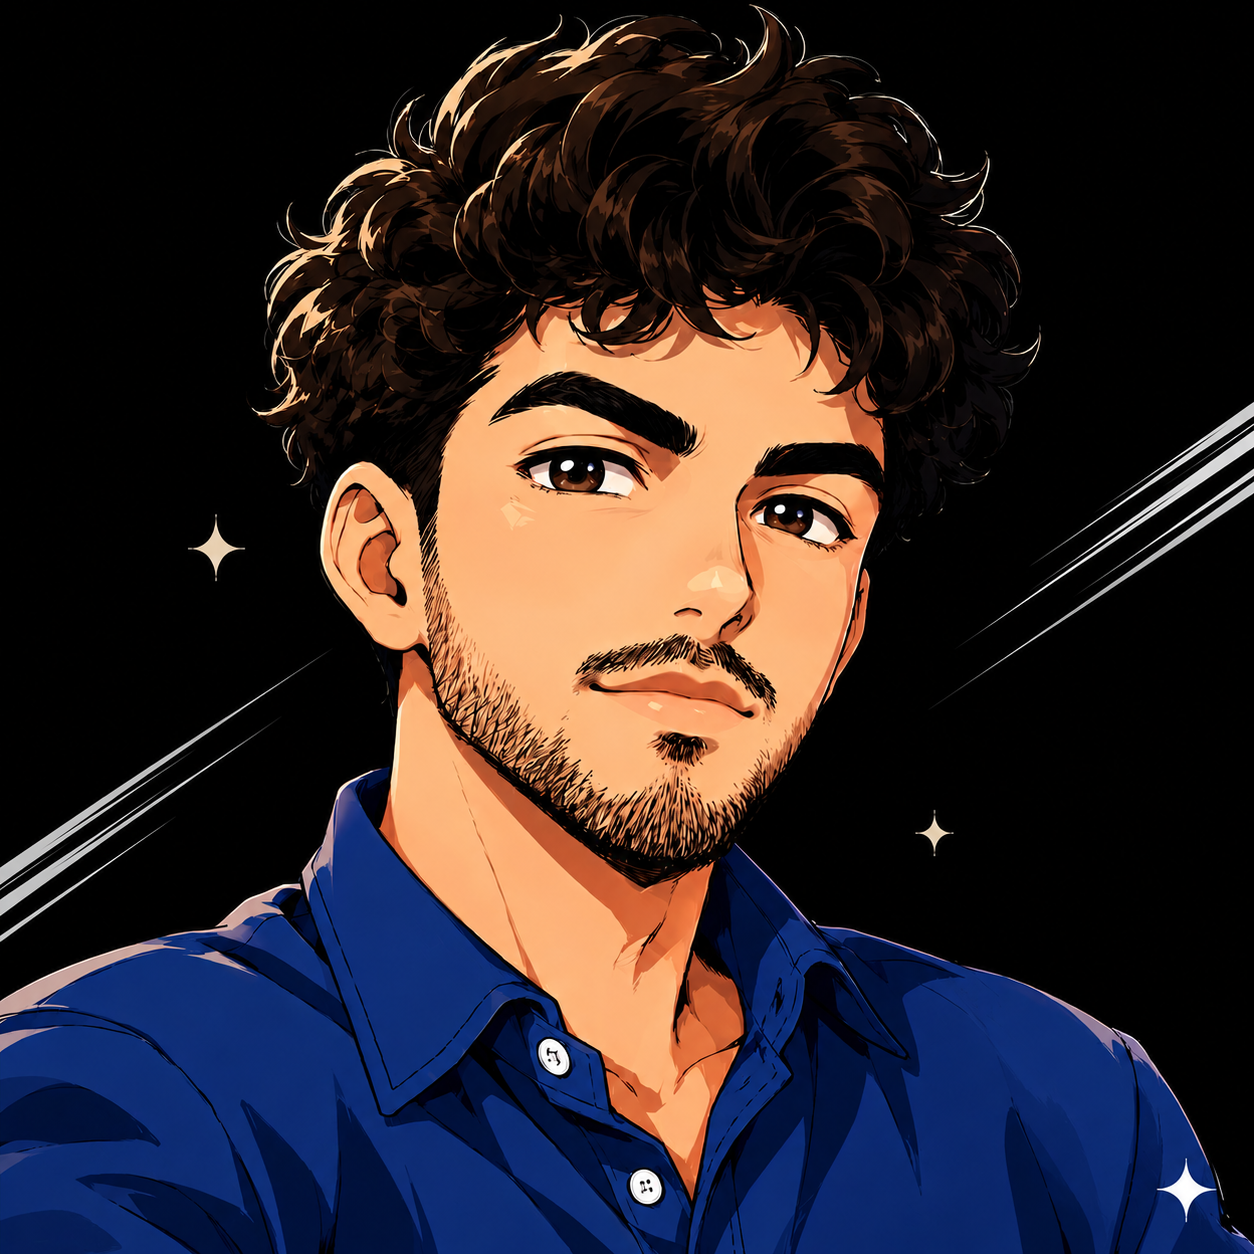
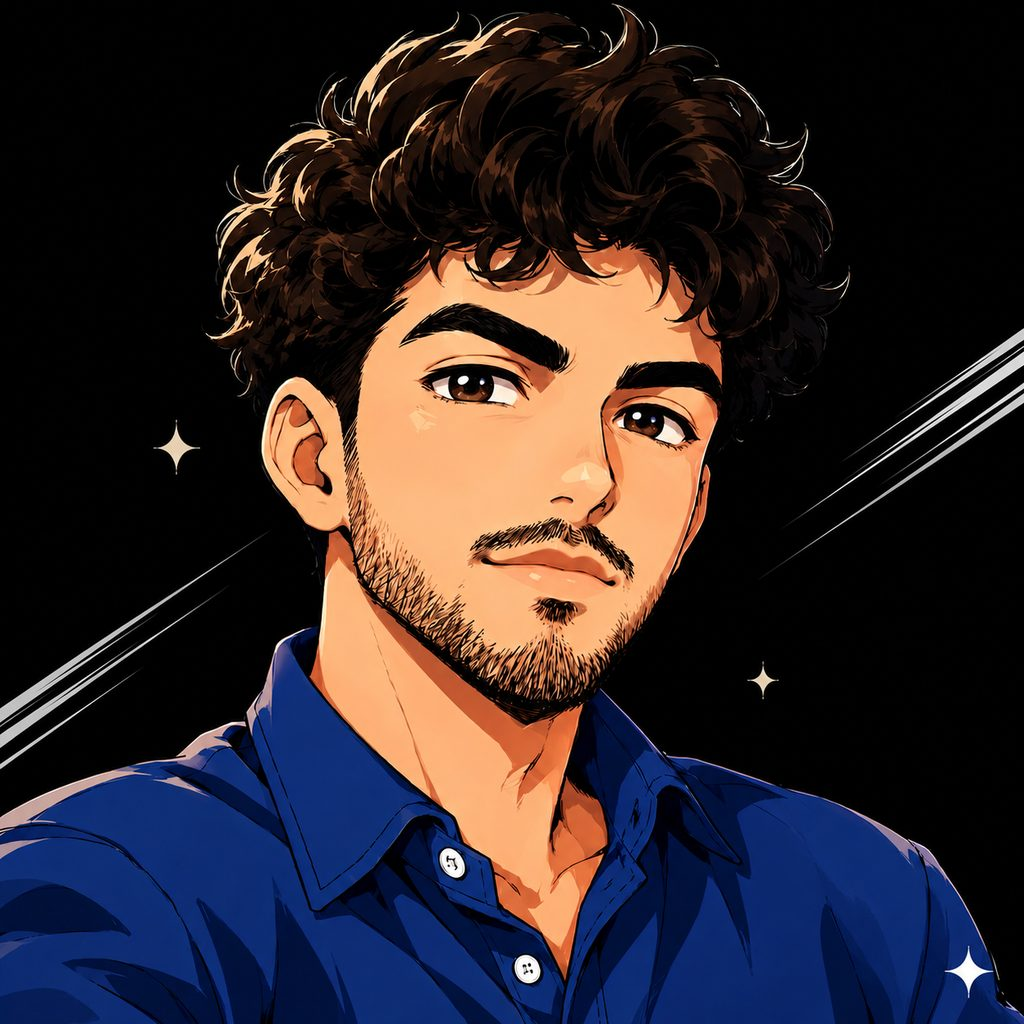
fix performance

diff --git a/portfolio/components/PerfMode.tsx b/portfolio/components/PerfMode.tsx
@@ -1,0 +1,95 @@
+"use client";
+import { createContext, useContext, useEffect, useState } from "react";
+
+/**
+ * ── Adaptive performance mode ──────────────────────────────────────────
+ *
+ * The site previously guessed "low-end device" purely from screen width +
+ * device-pixel-ratio media queries. That's a bad proxy — plenty of phones
+ * with small screens have fast GPUs, and plenty of large-screen laptops
+ * are weak (cheap Windows machines, old MacBooks, etc). It also meant
+ * nothing ever adapted for a weak device with a normal-sized screen.
+ *
+ * This instead looks at real device signals (CPU core count, RAM, data-
+ * saver preference, reduced-motion preference) AND runs a short actual
+ * frame-rate probe so we react to genuine GPU/CPU struggle rather than
+ * screen size. Capable devices are completely unaffected — every visual
+ * stays exactly as designed. Only devices that are actually struggling
+ * get cheaper blur radii, simpler transitions, etc.
+ */
+
+type PerfMode = "full" | "low";
+
+const PerfContext = createContext<PerfMode>("full");
+
+function staticHeuristicLow(): boolean {
+  if (typeof window === "undefined") return false;
+
+  const nav = navigator as Navigator & {
+    deviceMemory?: number;
+    connection?: { saveData?: boolean; effectiveType?: string };
+  };
+
+  if (window.matchMedia("(prefers-reduced-motion: reduce)").matches) return true;
+  if (nav.connection?.saveData) return true;
+  if (typeof nav.deviceMemory === "number" && nav.deviceMemory <= 4) return true;
+  if (typeof navigator.hardwareConcurrency === "number" && navigator.hardwareConcurrency <= 4) return true;
+
+  return false;
+}
+
+/** Measures real frame pacing for ~350ms. Returns true if frames are running slow. */
+function probeFrameRate(onDone: (isSlow: boolean) => void) {
+  const samples: number[] = [];
+  let last = performance.now();
+  let raf = 0;
+  let frames = 0;
+
+  const tick = (ts: number) => {
+    const dt = ts - last;
+    last = ts;
+    if (frames > 1) samples.push(dt); // skip the first frame (warm-up)
+    frames++;
+    if (frames < 16) {
+      raf = requestAnimationFrame(tick);
+    } else {
+      const avg = samples.reduce((a, b) => a + b, 0) / samples.length;
+      onDone(avg > 22); // slower than ~45fps average
+    }
+  };
+  raf = requestAnimationFrame(tick);
+  return () => cancelAnimationFrame(raf);
+}
+
+export function PerfModeProvider({ children }: { children: React.ReactNode }) {
+  const [mode, setMode] = useState<PerfMode>("full");
+
+  useEffect(() => {
+    // Fast, synchronous-ish heuristic first — covers the common cases
+    // (data saver on, reduced motion requested, low-memory device) without
+    // waiting on anything.
+    if (staticHeuristicLow()) {
+      setMode("low");
+      document.documentElement.setAttribute("data-perf", "low");
+      return;
+    }
+
+    // Otherwise, actually measure. If the device is struggling to hit a
+    // smooth frame rate even doing nothing yet, it'll struggle more once
+    // blur/animation work is added — better to find out now.
+    const cancel = probeFrameRate((isSlow) => {
+      if (isSlow) {
+        setMode("low");
+        document.documentElement.setAttribute("data-perf", "low");
+      }
+    });
+    return cancel;
+  }, []);
+
+  return <PerfContext.Provider value={mode}>{children}</PerfContext.Provider>;
+}
+
+/** True only for devices detected as genuinely struggling. */
+export function useLowPerf(): boolean {
+  return useContext(PerfContext) === "low";
+}

diff --git a/portfolio/components/Avatar.tsx b/portfolio/components/Avatar.tsx
@@ -224,9 +224,33 @@ export function Avatar() {
     imgL.onerror = () => { G.texL = makeFallback(false); boot(); };
     imgL.src = "/avatar-light.jpg";
 
+    let isVisible = true;
+    let loopFn: ((ts: number) => void) | null = null;
+
+    const resumeIfNeeded = () => {
+      if (isVisible && !document.hidden && G.raf === 0 && loopFn) {
+        G.raf = requestAnimationFrame(loopFn);
+      }
+    };
+
+    const io = new IntersectionObserver(
+      ([entry]) => { isVisible = entry.isIntersecting; resumeIfNeeded(); },
+      { threshold: 0 }
+    );
+    io.observe(canvas);
+
+    const onVisibilityChange = () => resumeIfNeeded();
+    document.addEventListener("visibilitychange", onVisibilityChange);
+
     const startLoop = () => {
       let last = 0;
       const loop = (ts: number) => {
+        // Don't keep scheduling frames while off-screen or the tab is
+        // backgrounded — the shader work (per-pixel noise warp) is the
+        // single most expensive thing running on the page, and it was
+        // previously running forever even when nobody could see it,
+        // stealing frame budget from every other section.
+        if (!isVisible || document.hidden) { G.raf = 0; return; }
         G.raf = requestAnimationFrame(loop);
         const dt = Math.min((ts - last) / 1000, 0.033);
         last = ts;
@@ -263,6 +287,7 @@ export function Avatar() {
         gl.uniform1f(G.uBlink, G.blink);
         gl.drawArrays(gl.TRIANGLE_STRIP, 0, 4);
       };
+      loopFn = loop;
       G.raf = requestAnimationFrame(loop);
     };
 
@@ -280,6 +305,8 @@ export function Avatar() {
     return () => {
       cancelAnimationFrame(G.raf);
       if (G.tid) clearTimeout(G.tid);
+      io.disconnect();
+      document.removeEventListener("visibilitychange", onVisibilityChange);
       canvas.removeEventListener("mouseenter", onEnter);
       canvas.removeEventListener("mouseleave", onLeave);
       if (G.texD) gl.deleteTexture(G.texD);

diff --git a/portfolio/app/layout.tsx b/portfolio/app/layout.tsx
@@ -1,5 +1,6 @@
 import type { Metadata } from "next";
 import type { Viewport } from "next";
+import { PerfModeProvider } from "@/components/PerfMode";
 import { ThemeProvider } from "@/components/ThemeProvider";
 import { MotionProvider } from "@/components/MotionProvider";
 import { DotBackground } from "@/components/DotBackground";
@@ -53,20 +54,24 @@ export default function RootLayout({
         <link rel="dns-prefetch" href="https://cdn.jsdelivr.net" />
         <link rel="dns-prefetch" href="https://registry.npmmirror.com" />
         <link rel="dns-prefetch" href="https://upload.wikimedia.org" />
+        {/* Preconnect for the actual project card photos — bigger payload than the logo icons */}
+        <link rel="preconnect" href="https://images.unsplash.com" crossOrigin="anonymous" />
       </head>
 
       <body>
-        <ThemeProvider>
-          <MotionProvider>
-            <DotBackground />
-            <div style={{ position: "relative", zIndex: 1 }}>
-              {children}
-            </div>
+        <PerfModeProvider>
+          <ThemeProvider>
+            <MotionProvider>
+              <DotBackground />
+              <div style={{ position: "relative", zIndex: 1 }}>
+                {children}
+              </div>
 
-            {/* 🐱 Pixel cat — client-only, loaded after hydration */}
-            <OnekoCatLoader />
-          </MotionProvider>
-        </ThemeProvider>
+              {/* 🐱 Pixel cat — client-only, loaded after hydration */}
+              <OnekoCatLoader />
+            </MotionProvider>
+          </ThemeProvider>
+        </PerfModeProvider>
       </body>
     </html>
   );

diff --git a/portfolio/components/ThemeProvider.tsx b/portfolio/components/ThemeProvider.tsx
@@ -1,6 +1,7 @@
 "use client";
 import { createContext, useContext, useEffect, useState } from "react";
 import { playThemeToggleSound } from "../lib/soundcn/sounds";
+import { useLowPerf } from "./PerfMode";
 
 export type Theme = "dark" | "light";
 
@@ -20,6 +21,7 @@ function applyTheme(t: Theme) {
 
 export function ThemeProvider({ children }: { children: React.ReactNode }) {
   const [theme, setThemeState] = useState<Theme>("dark");
+  const lowPerf = useLowPerf();
 
   useEffect(() => {
     // Read persisted preference immediately on mount
@@ -37,7 +39,14 @@ export function ThemeProvider({ children }: { children: React.ReactNode }) {
       navigator.vibrate(t === "dark" ? [30, 10, 15] : [15, 8, 30]);
     }
 
+    // On struggling devices, skip the full-page View Transition snapshot —
+    // it's the single most expensive part of a theme switch (the browser
+    // screenshots the entire page through every blur/box-shadow layer
+    // before it can wipe between them) and is what was showing up as a
+    // sluggish, delayed-feeling toggle. The theme still switches instantly,
+    // just without that snapshot+wipe animation.
     if (
+      !lowPerf &&
       typeof document !== "undefined" &&
       typeof (document as unknown as { startViewTransition?: (cb: () => void) => void }).startViewTransition === "function"
     ) {